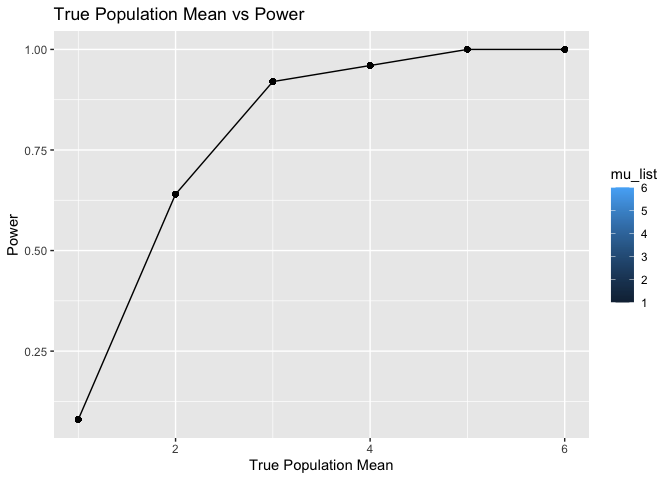
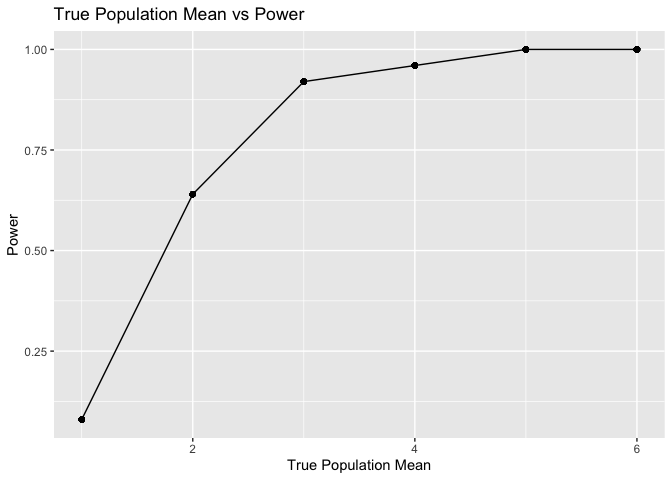
complete #3

diff --git a/p8105_hw5_enp2116.md b/p8105_hw5_enp2116.md
@@ -99,30 +99,30 @@ sim_results_df
 -   Make a plot showing the proportion of times the null was rejected
     (the power of the test) on the y axis and the true value of $\mu$ on
     the x axis. Describe the association between effect size and power.
+    ![](p8105_hw5_enp2116_files/figure-gfm/unnamed-chunk-3-1.png)<!-- -->
+    From the plot of true population mean versus power, we can see that
+    at a true $\mu$ of 1, the power of the test is quite low. However,
+    as $\mu$ increases, the power increases at an decreasing rate as it
+    approaches 1. Generalizing this relationship from our example, we
+    can see that as effect size increases from the null (which is
+    $\mu = 0$ here), we have greater power to detect a true difference
+    and at a high enough effect size, the tests will be almost perfect
+    at doing so.
 
-``` r
-sim_results_df %>% 
-  mutate(
-    reject = case_when(p_value <= 0.05  ~ TRUE,
-                        p_value > 0.05 ~ FALSE)) %>% 
-  group_by(mu_list) %>% 
-  mutate(power = mean(reject)) %>%
-  ggplot(aes(x = mu_list, y = power, fill = mu_list)) + geom_line() + geom_point() + xlab("True Population Mean") + ylab("Power") + labs(title = "True Population Mean vs Power")
-```
+-   First, making a plot showing the average estimate of $\hat{\mu}$ on
+    the y axis and the true value of $\mu$ on the x axis. Second, making
+    a second plot of the average estimate of $\hat{\mu}$ only in samples
+    for which the null was rejected on the y axis and the true value of
+    $\mu$ on the x axis.
 
-![](p8105_hw5_enp2116_files/figure-gfm/unnamed-chunk-3-1.png)<!-- -->
-From the plot of true population mean versus power, we can see that at a
-true $\mu$ of 1, the power of the test is quite low. However, as $\mu$
-increases, the power increases at an decreasing rate as it approaches 1.
-Generalizing this relationship from our example, we can see that as
-effect size increases from the null (which is $\mu = 0$ here), we have
-greater power to detect a true difference and at a high enough effect
-size, the tests will be almost perfect at doing so.
-
--   Make a plot showing the average estimate of $\hat{\mu}$ on the y
-    axis and the true value of $\mu$ on the x axis. Make a second plot
-    (or overlay on the first) the average estimate of $\hat{\mu}$ only
-    in samples for which the null was rejected on the y axis and the
-    true value of $\mu$ on the x axis. Is the sample average of
-    $\hat{\mu}$ across tests for which the null is rejected
-    approximately equal to the true value of $\mu$? Why or why not?
+![](p8105_hw5_enp2116_files/figure-gfm/unnamed-chunk-5-1.png)<!-- -->
+The sample average of $\hat{\mu}$ across tests for which the null is
+rejected approximately equal to the true value of $\mu$ at $\mu \geq 3$.
+At $\mu = 1$, we see a large discrepancy between the average estimates,
+with the rejected estimate over 2 and the total at about 1. The
+discrepancy gets smaller at $\mu = 2$, with the rejected estimate at
+about 2.5 and the total at about 2. This is because after the effect
+size gets large enough, the test will nearly always reject the null. At
+smaller values of $\mu$, where rejection occurs more often because
+values are closer to $\mu_0 = 0$, the rejected $\hat{\mu}$s are larger
+on average.
